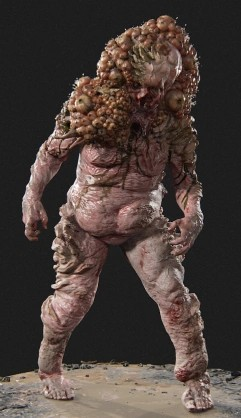
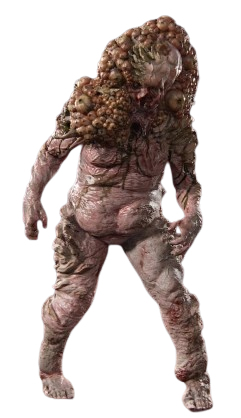
added swiper.js in characters slider

diff --git a/src/components/Characters.jsx b/src/components/Characters.jsx
@@ -1,64 +1,118 @@
 import React from "react";
 import { Swiper, SwiperSlide } from "swiper/react";
 import { Box, Text, Flex, Image } from "@chakra-ui/react";
-import { Navigation, Pagination } from "swiper/modules";
+import { Navigation, Autoplay } from "swiper/modules";
 import { Infected } from "./utils/Infected";
 import bg from "../assets/img/grunge border.png";
-
+import "swiper/css/navigation";
 const Characters = () => {
   return (
     <Flex
       justify="center"
       align="center"
-      w="100%"
-      height="100vh"
-      padding={5}
+      h="100vh"
+      p={5}
       backgroundImage={`url(${bg})`}
       backgroundPosition="fixed"
       backgroundSize="cover"
       backgroundRepeat="no-repeat"
-      alignItems="center"
+      direction={{ base: "column", md: "row", sm: "column" }}
     >
-      <Swiper
-        spaceBetween={20}
-        slidesPerView={3} // Adjust as needed
-        navigation
-        pagination={{ clickable: true }}
-        modules={[Navigation, Pagination]}
+      {/* Left Container */}
+      <Box
+        w="40%"
+        borderRadius={12}
+        textAlign="center"
+        color="white"
+        display="flex"
+        flexDirection="column"
+        bg="rgba(0, 0, 0, 0.5)"
+        top={0}
+        mr={4}
       >
-        {Infected.map((infected) => (
-          <SwiperSlide key={infected.id}>
-            <Box
-              bg="rgba(0, 0, 0, 0.8)"
-              p={4}
-              borderRadius={12}
-              textAlign="center"
-              color="white"
-              boxShadow="lg"
-              width="300px" // Set fixed width
-              height="450px" // Set fixed height
-              display="flex"
-              flexDirection="column"
-              alignItems="center"
-              justifyContent="space-between"
+        <Text fontSize="4xl" mb={4}>
+          Characters
+        </Text>
+      </Box>
+
+      {/* Right Side - Swiper */}
+      <Box
+        w={{ base: "100%", md: "40%" }}
+        display="flex"
+        justifyContent="center"
+      >
+        <Swiper
+          spaceBetween={10}
+          slidesPerView={1}
+          centeredSlides={true} // Ensures the active slide is in the center
+          loop="true"
+          modules={[Navigation, Autoplay]}
+          autoplay={{ delay: 5000, disableOnInteraction: false }}
+          style={{ display: "flex", justifyContent: "center" }}
+        >
+          {Infected.map((infected) => (
+            <SwiperSlide
+              key={infected.id}
+              style={{ display: "flex", justifyContent: "center" }}
             >
-              <Image
-                src={infected.image}
-                alt={infected.Infectedname}
+              <Box
+                p={4}
+                textAlign="center"
+                color="white"
+                width={{ base: 600, md: 450 }}
+                height={{ base: 600, md: 700 }}
+                display="flex"
+                flexDirection="column"
+                alignItems="center"
+                justifyContent="center"
+                position="relative"
+                overflow="hidden"
                 borderRadius={8}
-                objectFit="cover"
-                width="100%" // Ensure images take full width
-              />
-              <Text fontSize="xl" fontWeight="bold" mt={3}>
-                {infected.Infectedname}
-              </Text>
-              <Text fontSize="sm" px={2}>
-                {infected.desc.substring(0, 100)}... {/* Limit text length */}
-              </Text>
-            </Box>
-          </SwiperSlide>
-        ))}
-      </Swiper>
+              >
+                <Image
+                  src={infected.image}
+                  alt={infected.Infectedname}
+                  objectFit="cover"
+                  width="100%"
+                  height="100%"
+                  zIndex={1}
+                  borderRadius={8}
+                />
+                {/* Reflection Effect */}
+                <Image
+                  src={infected.image}
+                  alt={`${infected.Infectedname} Reflection`}
+                  objectFit="contain"
+                  width="100%"
+                  height="100%"
+                  transform="scaleY(1)"
+                  translateX="scale(1)"
+                  opacity={0.3}
+                  position="absolute"
+                  bottom="-50%"
+                  left={10}
+                  zIndex={0}
+                  top={0}
+                />{" "}
+              </Box>
+              <Box
+                position="absolute"
+                bottom={2}
+                left={0}
+                right={0}
+                textAlign="center"
+                bg="rgba(0, 0, 0, 0.2)"
+                p={2}
+                borderRadius={8}
+              >
+                <Text fontSize="xl" color="white" letterSpacing={2} zIndex={12}>
+                  {infected.Infectedname}
+                </Text>
+              </Box>
+            </SwiperSlide>
+          ))}
+        </Swiper>
+      </Box>
     </Flex>
   );
 };

diff --git a/src/components/utils/Infected.jsx b/src/components/utils/Infected.jsx
@@ -1,6 +1,6 @@
 import runner from "../../assets/img/Characters_img/Infected/The-Last-Of-Us-Background-Isolated-PNG.png";
-import stalker from "../../assets/img/Characters_img/Infected/stalker.jpg";
-import clicker from "../../assets/img/Characters_img/Infected/Clicker.jpg";
+import stalker from "../../assets/img/Characters_img/Infected/stalker.png";
+import clicker from "../../assets/img/Characters_img/Infected/Clicker.png";
 import shamblers from "../../assets/img/Characters_img/Infected/shamblers.png";
 import bloaters from "../../assets/img/Characters_img/Infected/Bloater.png";
 import ratking from "../../assets/img/Characters_img/Infected/rat king.png";

diff --git a/src/components/Map.jsx b/src/components/Map.jsx
@@ -16,8 +16,8 @@ const Map = () => {
           backgroundPosition: "center",
           backgroundRepeat: "no-repeat",
           backgroundSize: "100% 100%",
-          backgroundColor: "rgba(249, 248, 248, 0.6)",
-          boxShadow: "0 0 20px rgba(200, 200, 200, 0.5)",
+          backgroundColor: "rgba(10, 10, 10, 0.6)",
+          boxShadow: "0 0 20px rgba(0, 0, 0, 0.5)",
         }}
       >
         <Box>

diff --git a/src/main.jsx b/src/main.jsx
@@ -8,6 +8,7 @@ import "./App.css";
 import "swiper/css";
 import "swiper/css/navigation";
 import "swiper/css/pagination";
+
 const theme = extendTheme({ themes });
 createRoot(document.getElementById("root")).render(
   <StrictMode>
